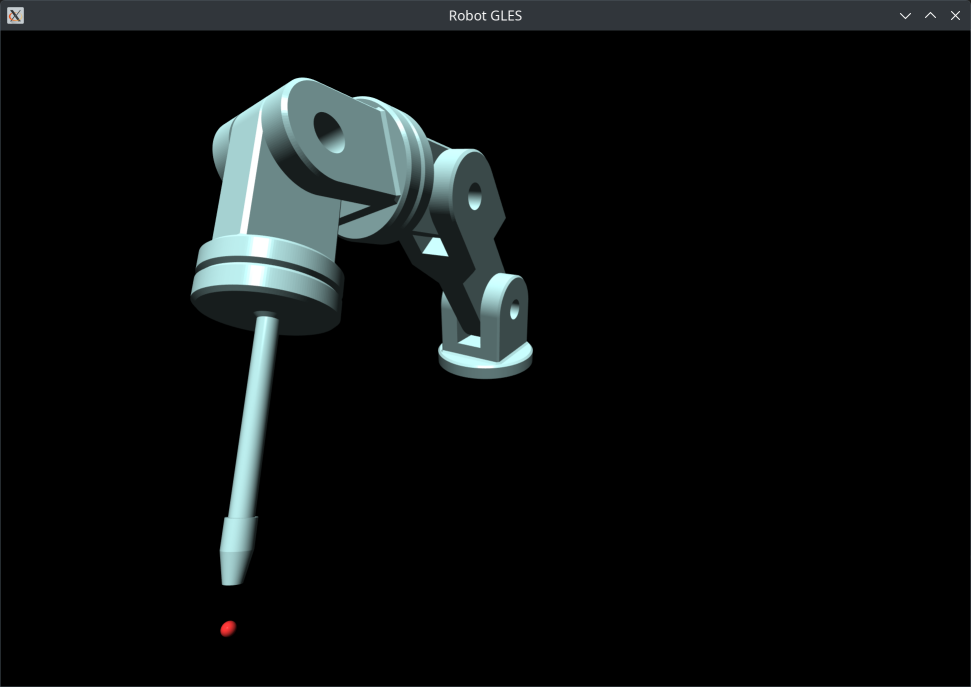
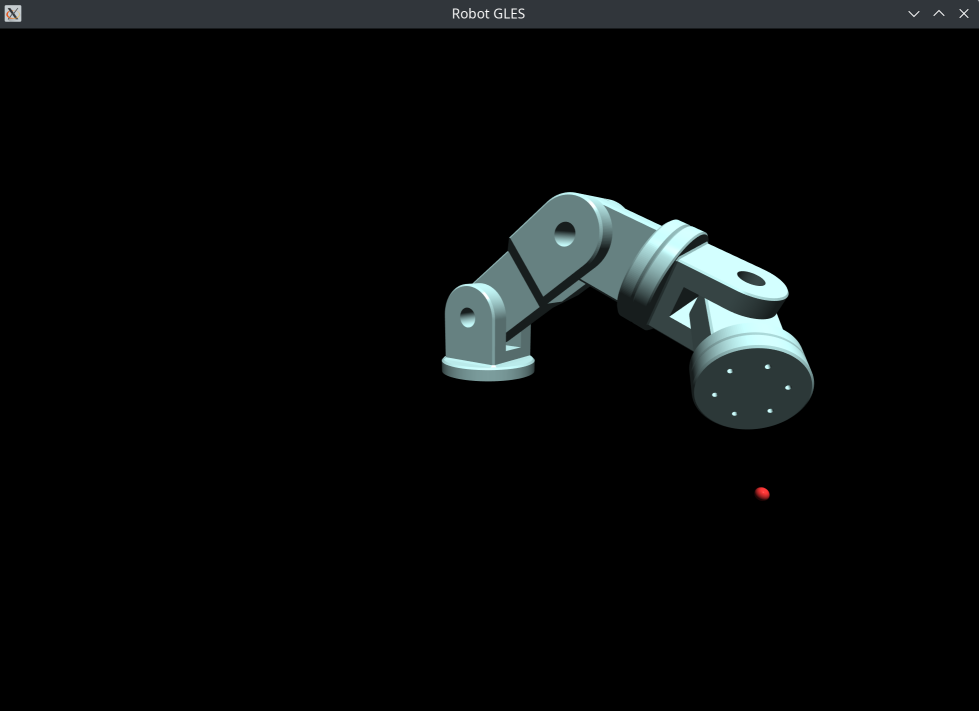
kinematics | WIP

diff --git a/robot.cpp b/robot.cpp
@@ -53,10 +53,10 @@ QRobot::QRobot(QObject *parent) : QObject(parent)
 	{
 		90.0,
 		200.0,
-		120.0,
-		90.0,
-		120.0,
-		205.0,
+		210.0,
+		0.0,
+		0.0,
+		140.0,
 	};
 
 	mJointAngles =
@@ -88,19 +88,21 @@ void QRobot::recalculateLinkMatrices()
 	mLinkMatrices[2]=fkMatrix;
 	fkMatrix.translate(0, 0, mLinkLengths[2]);
 
+	mWristMatrix=fkMatrix;
+
 	fkMatrix.rotate(mJointAngles[3] * RAD2DEG, 0,0,1);
 	mLinkMatrices[3]=fkMatrix;
-	fkMatrix.translate(0, 0, mLinkLengths[3]);
+	// fkMatrix.translate(0, 0, mLinkLengths[3]);
 
 	fkMatrix.rotate(mJointAngles[4] * RAD2DEG, 1,0,0);
 	mLinkMatrices[4]=fkMatrix;
-	fkMatrix.translate(0, 0, mLinkLengths[4]);
+	// fkMatrix.translate(0, 0, mLinkLengths[4]);
 
 	fkMatrix.rotate(mJointAngles[5] * RAD2DEG, 0,0,1);
 	mLinkMatrices[5]=fkMatrix;
 	fkMatrix.translate(0, 0, mLinkLengths[5]);
 
-	mEEMatrix=fkMatrix;
+	mFlangeMatrix=fkMatrix;
 }
 
 void QRobot::recalculateTargetMatrix()
@@ -118,7 +120,7 @@ void QRobot::solveInverseKinematics(const QVector3D &position)
 	QVector<double> ikStepRad(numOfJoints, ikInitialStep);
 	bool improved=true;
 	recalculateLinkMatrices();
-	double currentDistance=(position - getToolPosition()).length();
+	double currentDistance=(position - getFlangePosition()).length();
 	while (improved)
 	{
 		improved=false;
@@ -129,7 +131,7 @@ void QRobot::solveInverseKinematics(const QVector3D &position)
 				const double oldAngle=mJointAngles[j];
 				mJointAngles[j]=qBound(mJointLimitMin[j], oldAngle + ikStepRad[j], mJointLimitMax[j]);
 				recalculateLinkMatrices();
-				const double newDistance=(position - getToolPosition()).length();
+				const double newDistance=(position - getFlangePosition()).length();
 				if (currentDistance > newDistance)
 				{
 					currentDistance=newDistance;
@@ -149,8 +151,8 @@ void QRobot::solveInverseKinematics(const QVector3D &position)
 
 void QRobot::startAnimation()
 {
-	mStartPosition=getToolPosition();
-	//mStartOrientation=getToolOrientation();
+	mStartPosition=getFlangePosition();
+	//mStartOrientation=getFlangeOrientation();
 	mAnimationProgress=0.0;
 	mAnimationStep=1.0/(mTargetPosition-mStartPosition).length();
 	mAnimationTimer.start(10, this);
@@ -254,25 +256,19 @@ const QMatrix4x4 &QRobot::getTargetMatrix() const
 	return mTargetMatrix;
 }
 
-QVector3D QRobot::getToolPosition() const
+QVector3D QRobot::getFlangePosition() const
 {
 	QVector3D positionVec(
-		mEEMatrix(0, 3), // X
-		mEEMatrix(1, 3), // Y
-		mEEMatrix(2, 3)); // Z
+		mFlangeMatrix(0, 3), // X
+		mFlangeMatrix(1, 3), // Y
+		mFlangeMatrix(2, 3)); // Z
 	return positionVec;
 }
 
-QQuaternion QRobot::getToolOrientation() const
+QQuaternion QRobot::getFlangeOrientation() const
 {
-	float rotData[9] =
-	{
-		mEEMatrix(0, 0), mEEMatrix(0, 1), mEEMatrix(0, 2),
-		mEEMatrix(1, 0), mEEMatrix(1, 1), mEEMatrix(1, 2),
-		mEEMatrix(2, 0), mEEMatrix(2, 1), mEEMatrix(2, 2)
-	};
-	QMatrix3x3 rotM(rotData);
-	return QQuaternion::fromRotationMatrix(rotM);
+	QMatrix3x3 rotMat=mFlangeMatrix.toGenericMatrix<3,3>();
+	return QQuaternion::fromRotationMatrix(rotMat);
 }
 
 const QVector3D &QRobot::getTargetPosition() const

diff --git a/robot.hpp b/robot.hpp
@@ -17,7 +17,8 @@ class QRobot : public QObject
 	QVector <double> mLinkLengths; // mm
 	QVector <QMatrix4x4> mLinkMatrices;
 	QMatrix4x4 mTargetMatrix;
-	QMatrix4x4 mEEMatrix;
+	QMatrix4x4 mWristMatrix;
+	QMatrix4x4 mFlangeMatrix;
 	QVector3D mStartPosition;
 	QVector3D mTargetPosition;
 	QQuaternion mTargetOrientation;
@@ -41,8 +42,8 @@ public:
 	QPair<qreal, qreal> getJointLimits(int joint_index) const;
 	const QMatrix4x4 &getLinkMatrix(int linkIndex) const;
 	const QMatrix4x4 &getTargetMatrix() const;
-	QVector3D getToolPosition() const;
-	QQuaternion getToolOrientation() const;
+	QVector3D getFlangePosition() const;
+	QQuaternion getFlangeOrientation() const;
 	const QVector3D &getTargetPosition() const;
 	const QQuaternion &getTargetOrientation() const;
 

diff --git a/controlswidget.cpp b/controlswidget.cpp
@@ -55,7 +55,7 @@ void ControlsWidget::onRobotConfigurationChanged()
 
 	double jointAngle;
 
-	QVector3D toolPosition=mRobot->getToolPosition();
+	QVector3D toolPosition=mRobot->getFlangePosition();
 	ui->lineEdit_current_x->setText(QString::number(toolPosition.x(), 'f', 3));
 	ui->lineEdit_current_y->setText(QString::number(toolPosition.y(), 'f', 3));
 	ui->lineEdit_current_z->setText(QString::number(toolPosition.z(), 'f', 3));